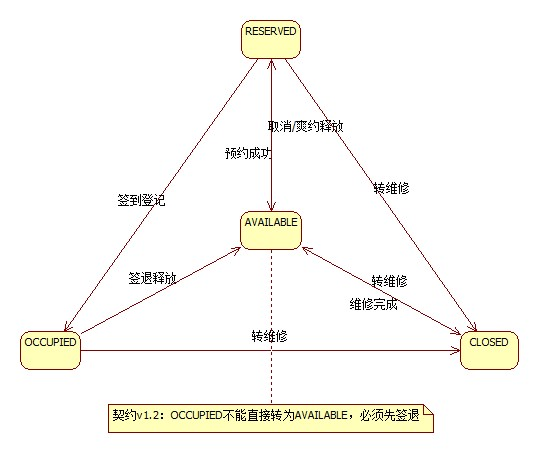
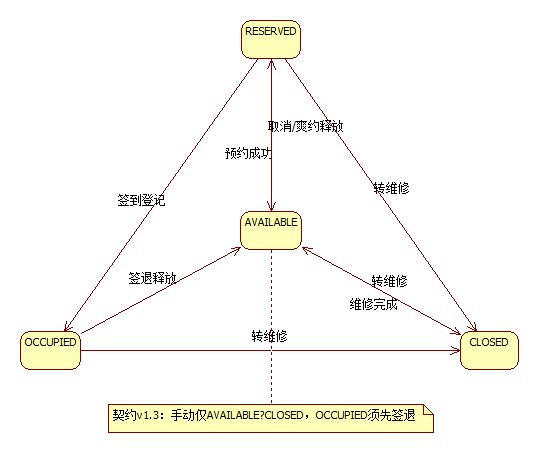
A-11: 实验5座位状态图备注改v1.3并换入Word内嵌图

Changed region(s): [[0.2672, 0.8962, 0.7718, 0.9272]]

diff --git a/docs/工作记录.md b/docs/工作记录.md
@@ -83,7 +83,7 @@
 | 2026-11-10 | 叶梅冰（B） | B-4/B-5 截图 | 补 6 张运行截图：登录页、学生端座位总览、预约成功弹窗、“我的预约”座位状态列、值班端签退成功、系统端信用分明细；截图放在 `docs/assets/`，同步进度看板与实现记录的清单与文件名 | `docs/assets/B4_登录界面.png`、`B4_学生端座位总览.png`、`B5_预约成功弹窗.png`、`B5_我的预约_座位状态.png`、`B5_签退成功.png`、`B5_信用分明细.png` | `53f323e` |
 | 2026-11-10 | 叶梅冰（B） | B-5 转维修与列常量 | 系统端“转维修”改走 Service 编排：目标为维修且座位处于预约态时先弹二次确认，确认后调用 `reservationService.closeSeatForRepair(seatNo)`，由 Service 级联取消该座位未完成预约（过签到截止的按爽约处理），完成后回显处理的预约条数；其余状态仍走 `updateSeatStatus`。`StudentMainFrame` 把表格列索引抽成常量 `COL_SEAT_STATUS=2`、`COL_RES_STATUS=8`，替换两处渲染器与取消校验里的硬编码数字。进度看板“当前节点”按现状重写（契约 v1.3、A-3～A-7 完成、A-10 落地、B-3/B-4/B-5 已合并、截图入库、下一步 A-8 联调），测试数口径改为 43 | `src/main/java/com/studyroom/ui/SysAdminMainFrame.java`、`StudentMainFrame.java`、`docs/进度看板.md` | `待提交` |
 | 2026-11-10 | 叶梅冰（B） | B-5 列常量拆分 | 按 A 意见处理两表复用列号：原 `COL_SEAT_STATUS=2` 同时用于座位总览表与“我的预约”表纯属巧合，拆成按表命名的 `SEAT_LIST_COL_STATUS`（座位总览状态列）、`MY_RESV_COL_SEAT_STATUS`（我的预约座位状态列）、`MY_RESV_COL_RES_STATUS`（我的预约预约状态列），同步替换两处渲染器与取消校验共 4 处引用，任一表增删列不再影响另一张表；`./mvnw -o -B test` 43 个用例通过 | `src/main/java/com/studyroom/ui/StudentMainFrame.java` | `待提交` |
-| 2026-11-12 | 易雨杰（A） | A-11 按 B 交叉审查修正 | 按 PR #16 的 A-01～A-04 修正 A 侧三份报告 md。实验3：状态流转由「任意状态 → CLOSED」改为「手动仅 AVAILABLE↔CLOSED、OCCUPIED/RESERVED 不得手动改、转维修须先签退或走 `closeSeatForRepair`」，`updateStatus` 说明与契约一致性一节同步到 v1.3。实验5：座位状态清单三条退出条件与 T-03、T-05 目标状态改为「按剩余有效预约重算」，并补上 B 漏点的 T-03。实验8：第四节 PR #12 由「40 个提交、状态 Open」改为「已合并 `bef565c`、合并时 41 个提交」，第五节与交付物注明表格为截至 `2ba49c4` 的 40 条快照（第 41 条 `b144f38` 为补表提交）。三份 docx 按同一口径改写正文段落与表格单元格（`python-docx` 直接改文字，未重跑生成，版式与图片不动）；实验5 图内备注框为导出时点的 v1.2 表述，正文注明以 v1.3 为准 | `docs/reports/实验3-UML类图.md`、`docs/reports/实验5-状态图.md`、`docs/reports/实验8-版本控制.md`、三份同名 `.docx` | `06d9fc7` |
+| 2026-11-12 | 易雨杰（A） | A-11 按 B 交叉审查修正 | 按 PR #16 的 A-01～A-04 修正 A 侧三份报告 md。实验3：状态流转由「任意状态 → CLOSED」改为「手动仅 AVAILABLE↔CLOSED、OCCUPIED/RESERVED 不得手动改、转维修须先签退或走 `closeSeatForRepair`」，`updateStatus` 说明与契约一致性一节同步到 v1.3。实验5：座位状态清单三条退出条件与 T-03、T-05 目标状态改为「按剩余有效预约重算」，并补上 B 漏点的 T-03。实验8：第四节 PR #12 由「40 个提交、状态 Open」改为「已合并 `bef565c`、合并时 41 个提交」，第五节与交付物注明表格为截至 `2ba49c4` 的 40 条快照（第 41 条 `b144f38` 为补表提交）。三份 docx 按同一口径改写正文段落与表格单元格（`python-docx` 直接改文字，未重跑生成，版式不动）；实验5 座位状态图的备注框在 `.uml` 里由「契约v1.2：OCCUPIED不能直接转为AVAILABLE，必须先签退」改为「契约v1.3：手动仅AVAILABLE与CLOSED，OCCUPIED须先签退」，由 A 在 StarUML 重新导出 JPG 并替换 docx 内嵌图（替换前后图尺寸同为 539×453，版面不变） | `docs/reports/实验3-UML类图.md`、`docs/reports/实验5-状态图.md`、`docs/reports/实验8-版本控制.md`、三份同名 `.docx`、`docs/uml/实验5_状态图.uml`、`docs/assets/实验5_座位状态图.jpg` | `06d9fc7` |
 
 
 
@@ -153,4 +153,5 @@
 | v3.15 | 2026-11-09 | 易雨杰（A） | 按 B 联调问题单完成 A 侧 v1.3 契约改造（CONTRACT-CHANGE）：`SeatServiceImpl.updateSeatStatus` 重写为手动维护矩阵（AVAILABLE↔CLOSED 允许、OCCUPIED/RESERVED 拒绝），`signIn` 加座位守卫（CLOSED→SEAT_UNAVAILABLE、OCCUPIED→SEAT_IN_USE），座位 `status` 改为汇总状态（可用性按时段与 BOOKED/CHECKED_IN 判重叠），取消/爽约/签退后调 `refreshSeatSummary` 重算，新增 `ReservationService.closeSeatForRepair(seatNo)` 编排方法；补 5 个单测（共 43 个通过）；实验5 md 图下补 T-03/T-05/T-07 口径、实验6 md 三处旧口径改时段重叠、联调问题单状态改「已确认，A 侧已处理」 |
 | v3.16 | 2026-11-09 | 叶梅冰 | B 侧联调收口：`StudentMainFrame` 的“我的预约”补座位状态列（刷新时一次 `listAllSeats()` 建索引，复用 `TableFactory.seatStatusRenderer()`，取消校验列索引随之调整为 8），候选收窄与签到预检不做；README、进度看板、B4-B5 实现记录同步 A-10 的 v1.3 结论；B-3/B-4/B-5 标记为已随 PR #13 合并，待办补 43 个用例与联调确认状态 |
 | v3.17 | 2026-11-10 | 叶梅冰 | B-4/B-5 运行截图 6 张入库（`B4_登录界面.png`、`B4_学生端座位总览.png`、`B5_预约成功弹窗.png`、`B5_我的预约_座位状态.png`、`B5_签退成功.png`、`B5_信用分明细.png`）；进度看板截图清单与 B4-B5 实现记录按实际文件名同步并把 B-4/B-5 截图项标为已完成，README 版本升 v1.12；恢复 `src/main/resources/image.jpg`，保证打包后登录页仍有配图 |
-| v3.18 | 2026-11-12 | 易雨杰 | 按 PR #16 的 A-01～A-04 修正 A 侧三份报告 md：实验3 座位状态流转与 `updateStatus` 说明改 v1.3 口径（手动仅 `AVAILABLE↔CLOSED`、转维修须先签退或走 `closeSeatForRepair`）；实验5 状态清单与 T-03、T-05 目标状态改为「按剩余有效预约重算」，补上 T-03；实验8 PR #12 改「已合并 `bef565c`／合并时 41 个提交」并注明 40 条表格的截止时点；三份 docx 同步直接改单元格（未重跑生成，图片未换）；A-3/A-4/A-7 待办状态回填合并结果 |
+| v3.18 | 2026-11-12 | 易雨杰 | 按 PR #16 的 A-01～A-04 修正 A 侧三份报告 md：实验3 座位状态流转与 `updateStatus` 说明改 v1.3 口径（手动仅 `AVAILABLE↔CLOSED`、转维修须先签退或走 `closeSeatForRepair`）；实验5 状态清单与 T-03、T-05 目标状态改为「按剩余有效预约重算」，补上 T-03；实验8 PR #12 改「已合并 `bef565c`／合并时 41 个提交」并注明 40 条表格的截止时点；三份 docx 同步直接改单元格（未重跑生成）；A-3/A-4/A-7 待办状态回填合并结果 |
+| v3.19 | 2026-11-12 | 易雨杰 | 实验5 座位状态图备注框口径收口：`.uml` 内 NoteView 文字由 v1.2 表述改为「契约v1.3：手动仅AVAILABLE与CLOSED，OCCUPIED须先签退」（原写「AVAILABLE↔CLOSED」，因导出字体缺 ↔ 字形会显示为问号，改用汉字「与」），A 在 StarUML 重导出 JPG 覆盖 `docs/assets/实验5_座位状态图.jpg`，`实验5-状态图.docx` 内嵌图按 1:1 替换（仅 image1，539×453 尺寸不变），图例说明与第 3 条说明同步改为 v1.3 表述 |

diff --git a/docs/reports/实验5-状态图.md b/docs/reports/实验5-状态图.md
@@ -88,7 +88,7 @@
 
 图5-1 座位状态图
 
-图例说明：实心圆为初始伪状态；圆角矩形为状态；带箭头的实线为转移，线上文字为触发事件；右下方黄色备注框为图导出时（契约 v1.2）写的约束「OCCUPIED 不能直接转为 AVAILABLE，必须先签退」，当前 v1.3 的手动维护矩阵见本段之后的第 3 条说明，图内文字未随契约更新重画。
+图例说明：实心圆为初始伪状态；圆角矩形为状态；带箭头的实线为转移，线上文字为触发事件；右下方黄色备注框写的是契约 v1.3 的手动维护矩阵（手动仅 AVAILABLE 与 CLOSED，OCCUPIED 须先签退）。
 
 **4. 说明**
 
@@ -160,7 +160,7 @@
 
 ### （三）OCCUPIED 不能直接回 AVAILABLE 的约束怎么在图上表达
 
-状态图本身只能表达「有这条转移」，无法表达「这条转移必须经由某个方法」。本实验的处理办法是双管齐下：一是把转移事件名写成「签退释放」而不是「释放座位」或「改状态」，让读者知道这是走 `checkOut()` 流程；二是在图右下角加一个备注框，写上座位状态的契约约束（图内为导出时点的 v1.2 表述「OCCUPIED 不能直接转为 AVAILABLE，必须先签退」，v1.3 已收紧为「仅 `AVAILABLE↔CLOSED` 可手动改」，见前一条说明）。这样图面既保持了状态图的简洁（不引入额外的动作节点），又把约束落到了可查的位置。
+状态图本身只能表达「有这条转移」，无法表达「这条转移必须经由某个方法」。本实验的处理办法是双管齐下：一是把转移事件名写成「签退释放」而不是「释放座位」或「改状态」，让读者知道这是走 `checkOut()` 流程；二是在图右下角加一个备注框，直接写上契约 v1.3 的手动维护矩阵（手动仅 `AVAILABLE` 与 `CLOSED`，`OCCUPIED` 须先签退）。这样图面既保持了状态图的简洁（不引入额外的动作节点），又把约束落到了可查的位置。
 
 ### （四）与契约的一致性核对
 
